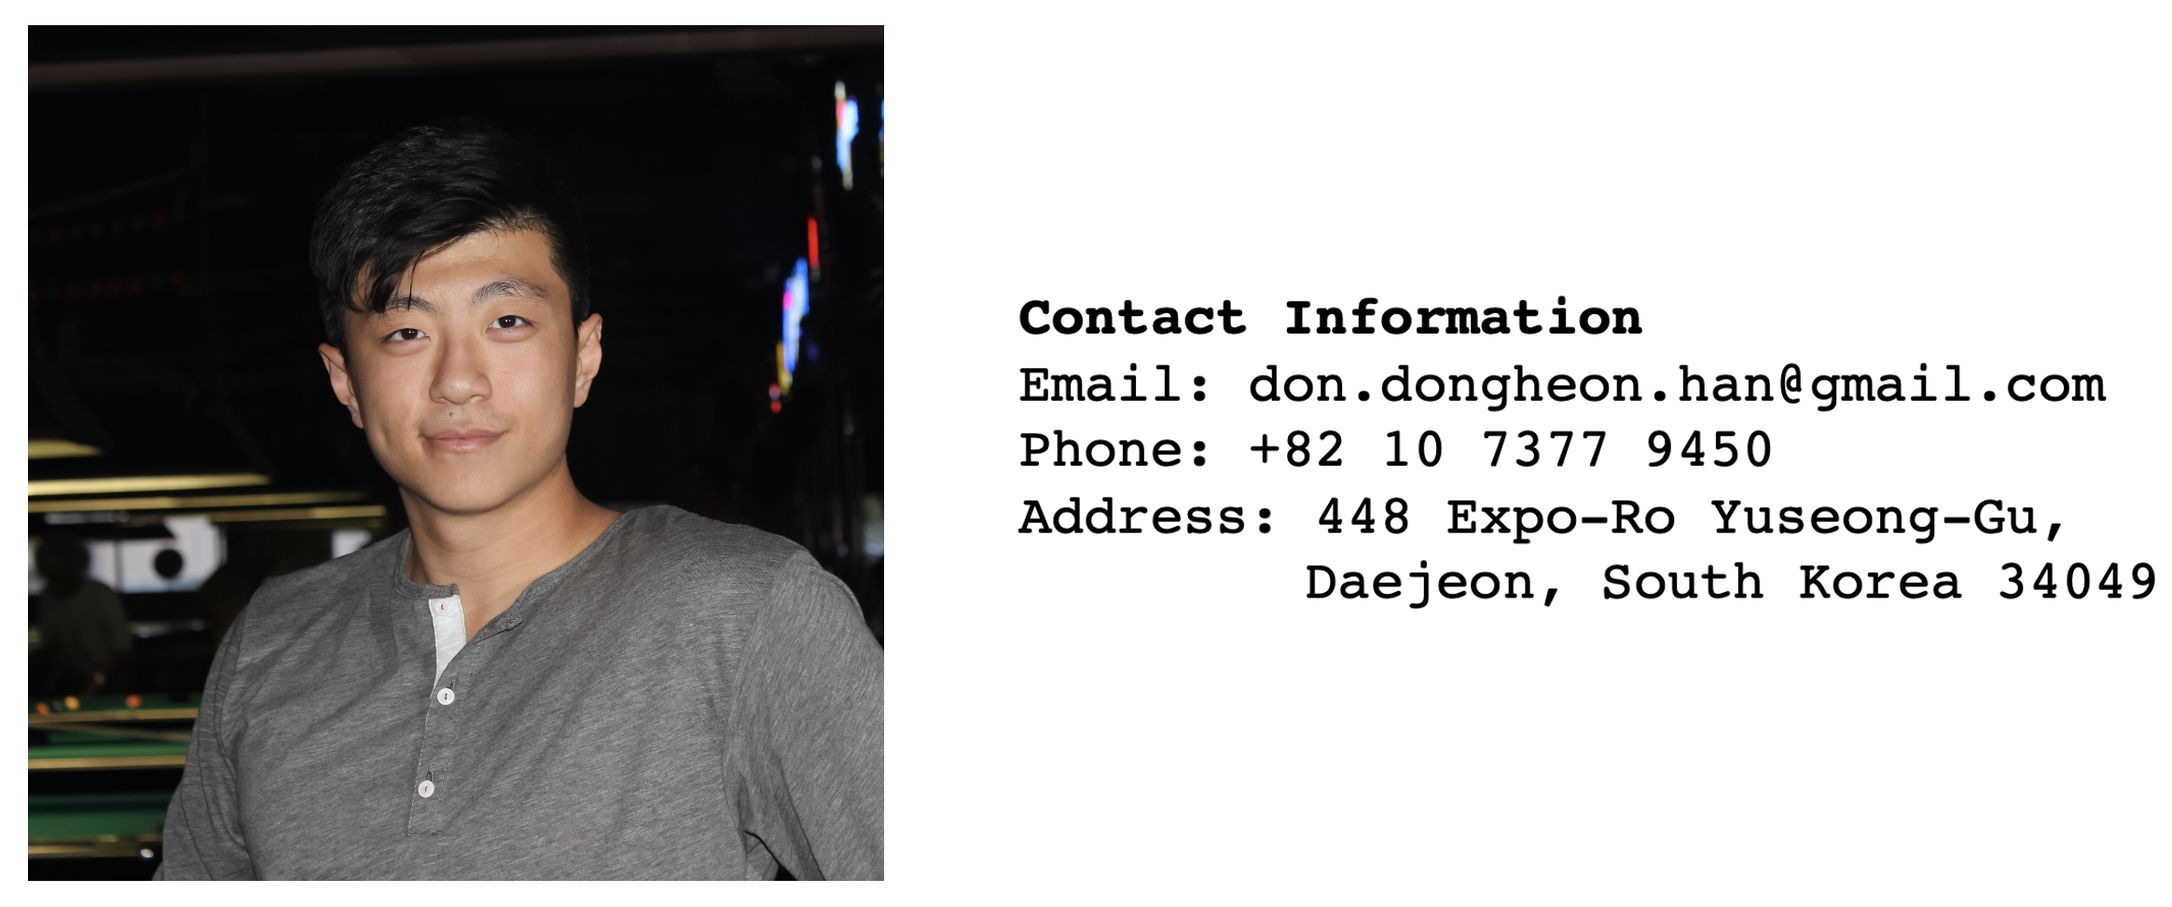
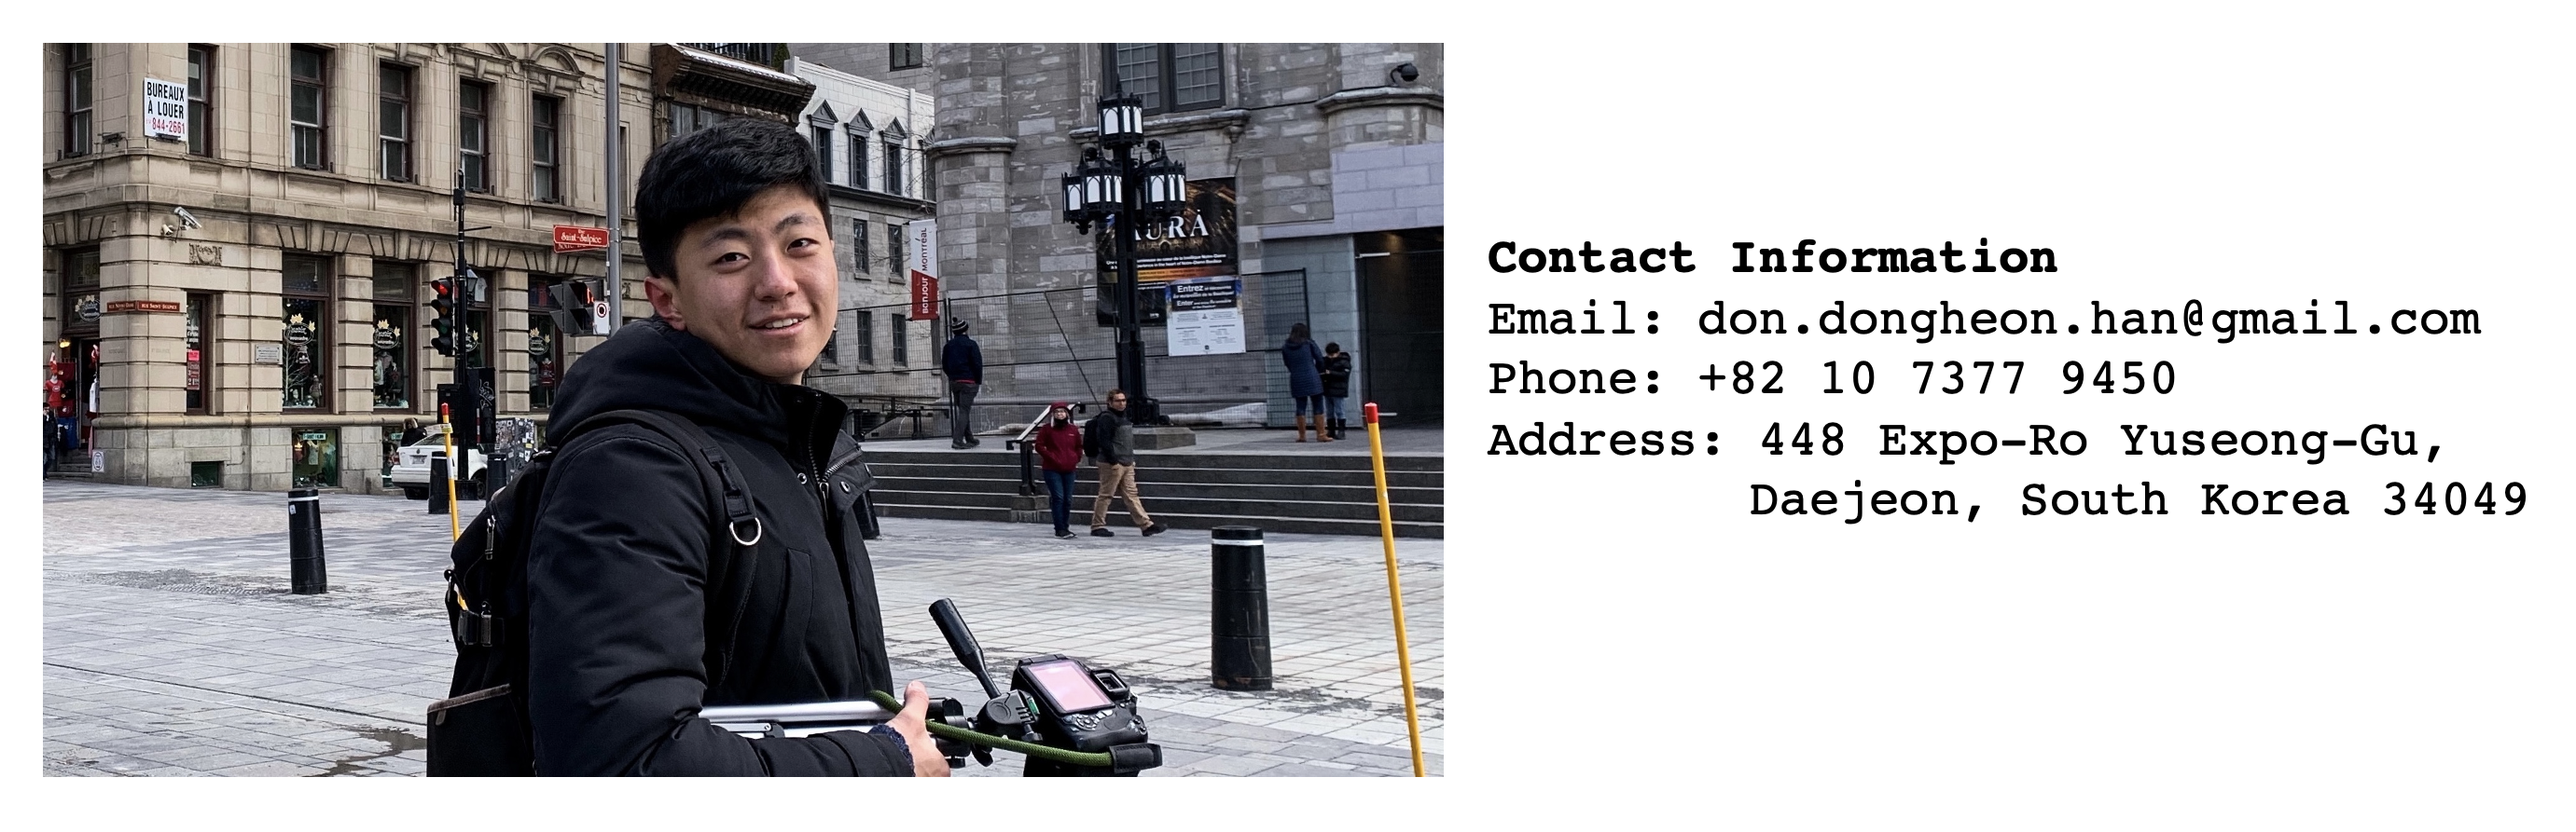
main

diff --git a/index.html b/index.html
@@ -15,6 +15,7 @@
     <link rel = "stylesheet" href="styles.css">
 </head>
 
+
 <body>
     <link rel = "stylesheet" href= "styles2.css">
 
@@ -25,6 +26,11 @@
     </style>
 
     <h1>Dong Heon Han</h1>
+    <h5>
+        <p>Contact Information:
+            <a href="mailto:don.dongheon.han@gmail.com">Email</a>
+            <a href="tel:+8273779450">Phone</a>
+    </h5>
 
     <div class="container">
         <form>
@@ -36,6 +42,7 @@
     </div>
     <br>
     <img src="img/don.png" class="centerxL">  
+    
     
     <br><br>
     <h2>Bio</h2>
